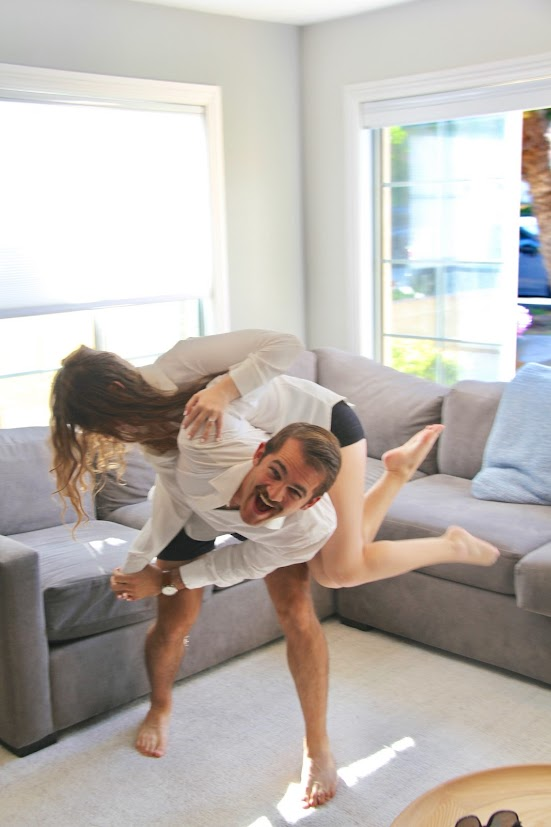
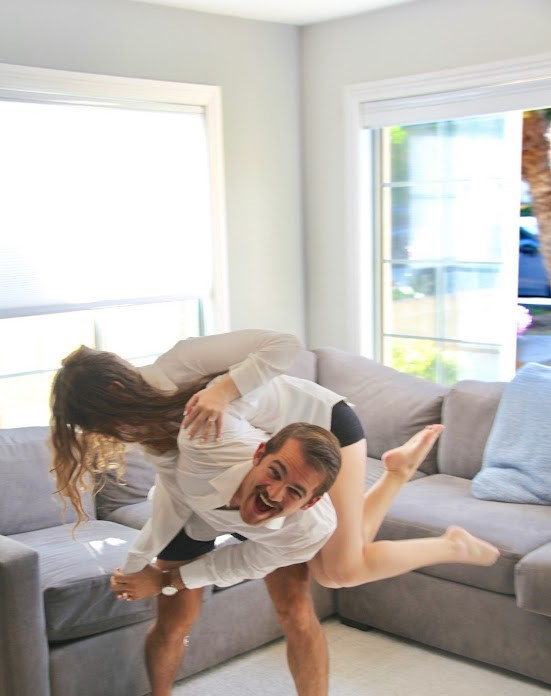
fixed new pictures positioning

diff --git a/vita-and-mason/index.html b/vita-and-mason/index.html
@@ -101,7 +101,7 @@
           <div class="row">
               <!-- Image Section -->
               <div class="col-md-4">
-                  <img src="images/rehearsal.jpg" alt="Event Image" class="img-fluid">
+                  <img src="images/rehearsal.jpg" alt="Event Image" class="img-fluid" style="object-position: bottom;">
               </div>
               <!-- Text Section -->
               <div class="col-md-8">
@@ -119,7 +119,7 @@
         <div class="row">
             <!-- Image Section -->
             <div class="col-md-4">
-                <img src="images//shuttle.jpg" alt="Event Image" class="img-fluid">
+                <img src="images//shuttle.jpg" alt="Event Image" class="img-fluid" style="object-position: bottom;">
             </div>
             <!-- Text Section -->
             <div class="col-md-8">
